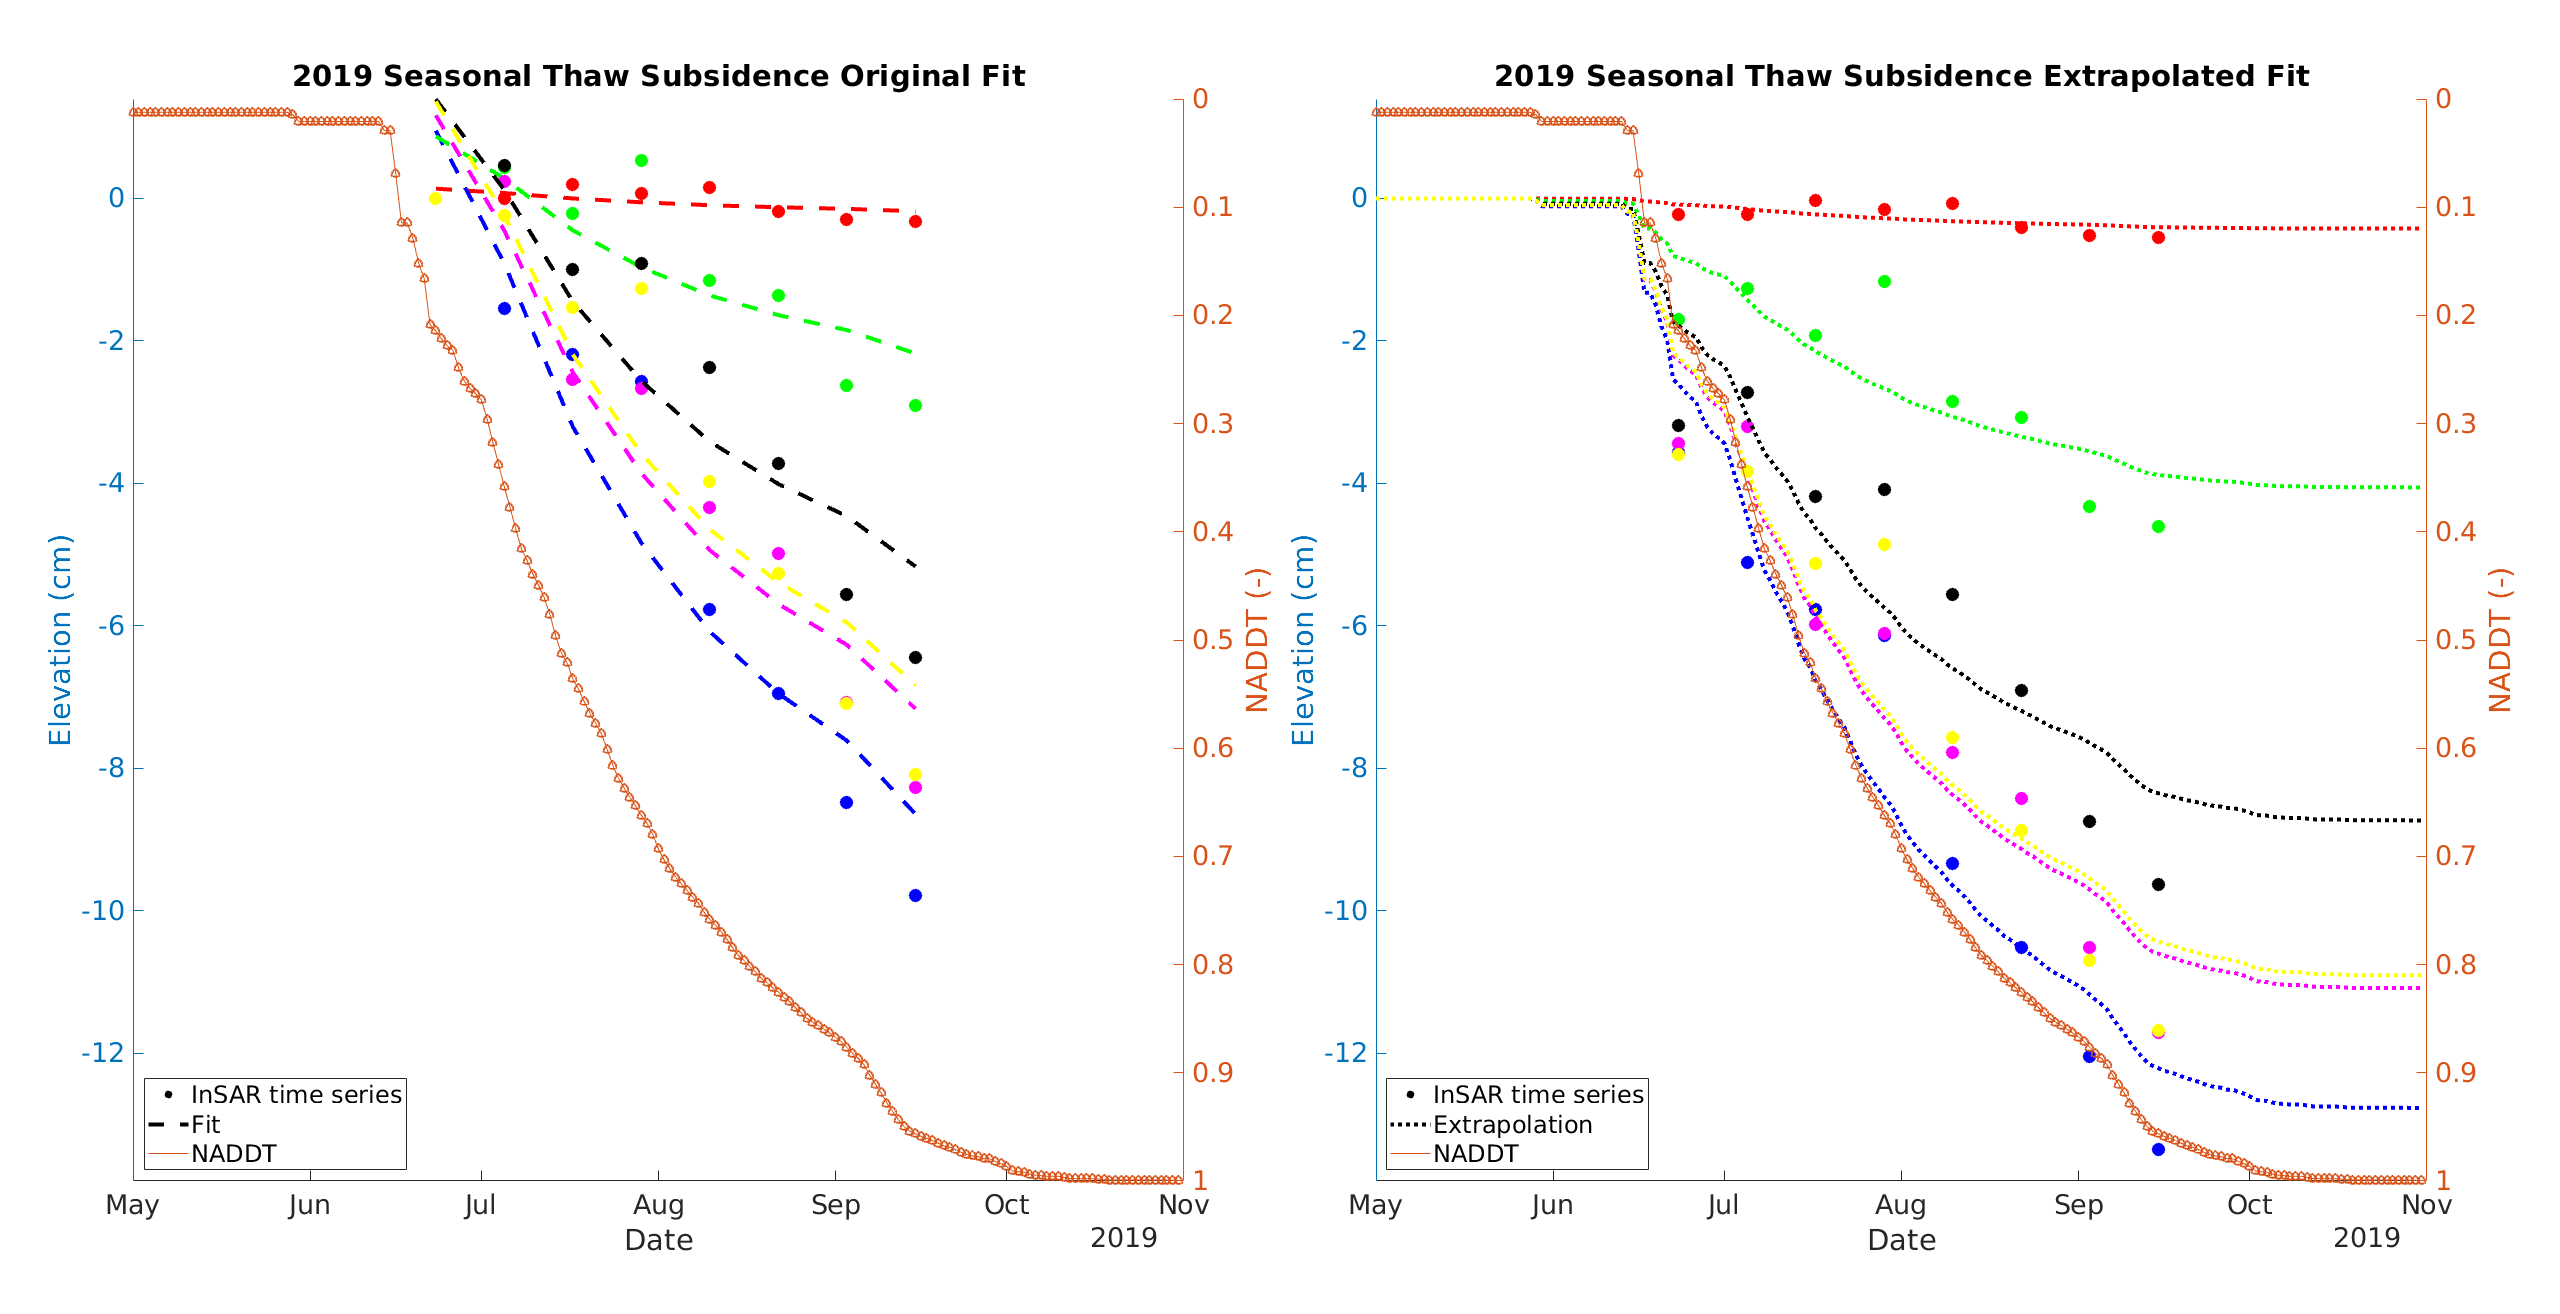
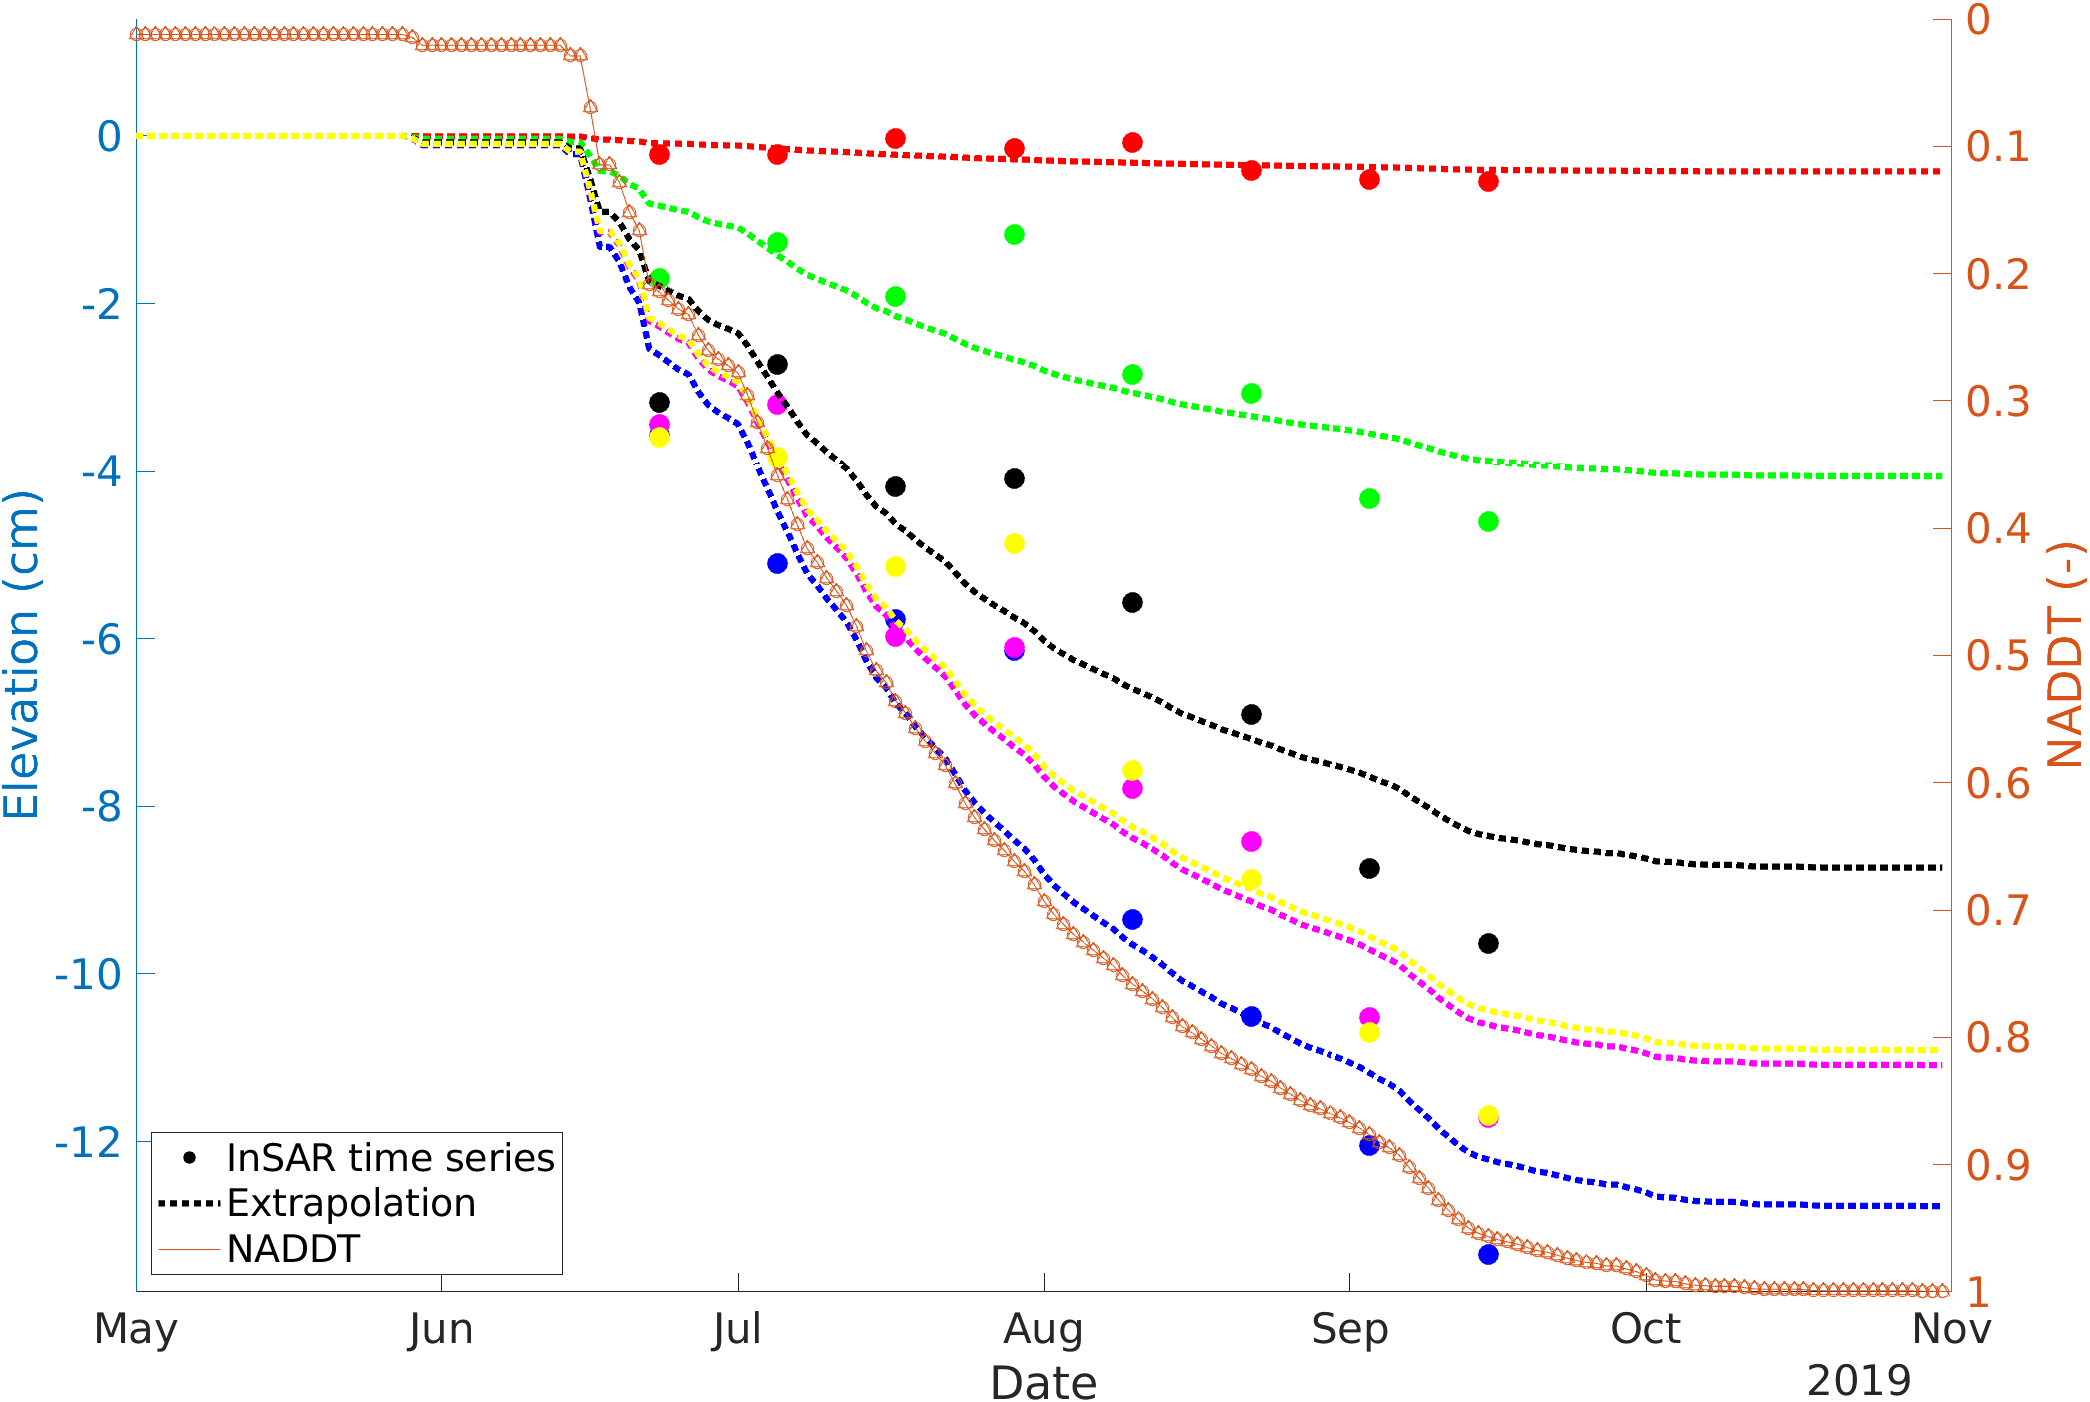
Standardize output plots
Removing old, manually-created plots for standardized plots for inter-year comparison and downstream figure generation.

diff --git a/main_processing/mintpy2018_v9_NW_drew_water/ReSALT/parse_data_one_year.m b/main_processing/mintpy2018_v9_NW_drew_water/ReSALT/parse_data_one_year.m
@@ -211,35 +211,8 @@ if freezedate > dates_datetime(num_dates)
     set(gca,'FontSize',20)
     set(gcf,'Position',[100 100 1500 1000])
 
-    %AGU ts plot
+    %Manuscript ts plot
     figure
-    tiledlayout(1,2)
-    nexttile
-    for i = 1:entries
-        yyaxis left
-        scatter(dates_datetime,squeeze(ts_thaw(pixelX(i),pixelY(i),:)),100,colors_full{i},'filled')
-        hold on
-        plot(dates_datetime,squeeze(yfitaddt(pixelX(i),pixelY(i),:)),colors{i},'LineWidth',3)
-        yyaxis right
-        set(gca,'YDir','reverse')
-        plot(dates_datetime_full,addt(dates_full_doy))
-    end
-    title([num2str(year),' Seasonal Thaw Subsidence Original Fit'])
-    xlabel('Date')
-    yyaxis left
-    ylabel('Elevation (cm)')
-    ylim_min = min(min(min(min(yfitaddt(pixelX,pixelY,:)))),min(min(min(yfit(pixelX,pixelY,:)))));
-    ylim_max = max(max(max(max(yfitaddt(pixelX,pixelY,:)))),max(max(max(yfit(pixelX,pixelY,:)))));
-    ylim([ylim_min,ylim_max])
-    yyaxis right
-    ylabel('NADDT (-)')
-%     legend(originallegendnames,'Location','bestoutside')
-    legend('','','','','','','','','InSAR time series','Fit','','','NADDT',"Location","southwest")
-    set(gca,'FontSize',20)
-    set(gcf,'Position',[100 100 1500 1000])
-    
-    nexttile
-
     for i = 1:entries
         yyaxis left
         scatter(dates_datetime,squeeze(ts_thaw_extrap(pixelX(i),pixelY(i),:)),100,colors_full{i},'filled')
@@ -249,7 +222,7 @@ if freezedate > dates_datetime(num_dates)
         set(gca,'YDir','reverse')
         plot(dates_datetime_full,addt(dates_full_doy))
     end
-    title([num2str(year),' Seasonal Thaw Subsidence Extrapolated Fit'])
+    %title([num2str(year),' Seasonal Thaw Subsidence Extrapolated Fit'])
     xlabel('Date')
     yyaxis left
     ylabel('Elevation (cm)')
@@ -395,6 +368,33 @@ else
     legend('','','','','','','','','InSAR time series','Extrapolation','','','NADDT',"Location","southwest")
     set(gca,'FontSize',20)
     set(gcf,'Position',[100 100 1500 1000])
+
+    %Manuscript ts plot
+    figure
+    for i = 1:entries
+        yyaxis left
+        scatter(dates_datetime,squeeze(ts_thaw_extrap(pixelX(i),pixelY(i),:)),100,colors_full{i},'filled')
+        hold on
+        plot(dates_datetime_full,squeeze(yfit(pixelX(i),pixelY(i),:)),colors{i},'LineWidth',3,'LineStyle',':')
+        yyaxis right
+        set(gca,'YDir','reverse')
+        plot(dates_datetime_full,addt(dates_full_doy))
+    end
+    %title([num2str(year),' Seasonal Thaw Subsidence Extrapolated Fit'])
+    xlabel('Date')
+    yyaxis left
+    ylabel('Elevation (cm)')
+    ylim([ylim_min,ylim_max])
+    yyaxis right
+    ylabel('NADDT (-)')
+%     legend(extraplegendnames,'Location','bestoutside')
+    legend('','','','','','','','','InSAR time series','Extrapolation','','','NADDT',"Location","southwest")
+    set(gca,'FontSize',20)
+    set(gcf,'Position',[100 100 1500 1000])
+    f = gcf;
+    f.WindowState = 'maximized';
+    aguplot = strcat(num2str(year),'_ts.png');
+    exportgraphics(f,aguplot)
 end
 %% error
 RMSE = zeros(nr,naz);
@@ -1099,8 +1099,12 @@ if isfile(ALT_core_string)
     e.Color = 'k';
 
     legend('ALT','Idealized 1-to-1 fit')
-    ax = gca;
-    ax.FontSize = 20;
+    set(gca,'FontSize',20)
+    set(gcf,'Position',[100 100 1500 1000])
+    f = gcf;
+    f.WindowState = 'maximized';
+    altplot = strcat(num2str(year),'_ALT_1_to_1_core.png');
+    exportgraphics(f,altplot)
 
 else
     disp("There is no ALT core data for this year.")
@@ -1183,8 +1187,12 @@ if isfile(ALT_probe_string)
     e.Color = 'k';
 
     legend('ALT','Idealized 1-to-1 fit')
-    ax = gca;
-    ax.FontSize = 20;
+    set(gca,'FontSize',20)
+    set(gcf,'Position',[100 100 1500 1000])
+    f = gcf;
+    f.WindowState = 'maximized';
+    altplot = strcat(num2str(year),'_ALT_1_to_1_probe.png');
+    exportgraphics(f,altplot)
 
 else
     disp("There is no probe data for this year.")
@@ -1229,8 +1237,12 @@ if isfile(ALT_core_string) %check if both core and probe data exists; if so, com
         e.Color = 'k';
 
         legend('ALT','Idealized 1-to-1 fit')
-        ax = gca;
-        ax.FontSize = 20;
+        set(gca,'FontSize',20)
+        set(gcf,'Position',[100 100 1500 1000])
+        f = gcf;
+        f.WindowState = 'maximized';
+        altplot = strcat(num2str(year),'_ALT_1_to_1_comb.png');
+        exportgraphics(f,altplot)
 
     else
         disp("Probe data does not exist. Only core data, so no need for combination of tables.")
@@ -1321,8 +1333,12 @@ if isfile(EIC_core_string)
     e.Color = 'k';
 
     legend('EIC','Idealized 1-to-1 fit')
-    ax = gca;
-    ax.FontSize = 20;
+    set(gca,'FontSize',20)
+    set(gcf,'Position',[100 100 1500 1000])
+    f = gcf;
+    f.WindowState = 'maximized';
+    altplot = strcat(num2str(year),'_EIC_1_to_1.png');
+    exportgraphics(f,altplot)
 else
     disp("There is no EIC core data for this year.")
 end

diff --git a/main_processing/mintpy2019_v8_NW_drew_water/ReSALT/parse_data_one_year.m b/main_processing/mintpy2019_v8_NW_drew_water/ReSALT/parse_data_one_year.m
@@ -211,35 +211,8 @@ if freezedate > dates_datetime(num_dates)
     set(gca,'FontSize',20)
     set(gcf,'Position',[100 100 1500 1000])
 
-    %AGU ts plot
+    %Manuscript ts plot
     figure
-    tiledlayout(1,2)
-    nexttile
-    for i = 1:entries
-        yyaxis left
-        scatter(dates_datetime,squeeze(ts_thaw(pixelX(i),pixelY(i),:)),100,colors_full{i},'filled')
-        hold on
-        plot(dates_datetime,squeeze(yfitaddt(pixelX(i),pixelY(i),:)),colors{i},'LineWidth',3)
-        yyaxis right
-        set(gca,'YDir','reverse')
-        plot(dates_datetime_full,addt(dates_full_doy))
-    end
-    title([num2str(year),' Seasonal Thaw Subsidence Original Fit'])
-    xlabel('Date')
-    yyaxis left
-    ylabel('Elevation (cm)')
-    ylim_min = min(min(min(min(yfitaddt(pixelX,pixelY,:)))),min(min(min(yfit(pixelX,pixelY,:)))));
-    ylim_max = max(max(max(max(yfitaddt(pixelX,pixelY,:)))),max(max(max(yfit(pixelX,pixelY,:)))));
-    ylim([ylim_min,ylim_max])
-    yyaxis right
-    ylabel('NADDT (-)')
-%     legend(originallegendnames,'Location','bestoutside')
-    legend('','','','','','','','','InSAR time series','Fit','','','NADDT',"Location","southwest")
-    set(gca,'FontSize',20)
-    set(gcf,'Position',[100 100 1500 1000])
-    
-    nexttile
-
     for i = 1:entries
         yyaxis left
         scatter(dates_datetime,squeeze(ts_thaw_extrap(pixelX(i),pixelY(i),:)),100,colors_full{i},'filled')
@@ -249,7 +222,7 @@ if freezedate > dates_datetime(num_dates)
         set(gca,'YDir','reverse')
         plot(dates_datetime_full,addt(dates_full_doy))
     end
-    title([num2str(year),' Seasonal Thaw Subsidence Extrapolated Fit'])
+    %title([num2str(year),' Seasonal Thaw Subsidence Extrapolated Fit'])
     xlabel('Date')
     yyaxis left
     ylabel('Elevation (cm)')
@@ -395,6 +368,33 @@ else
     legend('','','','','','','','','InSAR time series','Extrapolation','','','NADDT',"Location","southwest")
     set(gca,'FontSize',20)
     set(gcf,'Position',[100 100 1500 1000])
+
+    %Manuscript ts plot
+    figure
+    for i = 1:entries
+        yyaxis left
+        scatter(dates_datetime,squeeze(ts_thaw_extrap(pixelX(i),pixelY(i),:)),100,colors_full{i},'filled')
+        hold on
+        plot(dates_datetime_full,squeeze(yfit(pixelX(i),pixelY(i),:)),colors{i},'LineWidth',3,'LineStyle',':')
+        yyaxis right
+        set(gca,'YDir','reverse')
+        plot(dates_datetime_full,addt(dates_full_doy))
+    end
+    %title([num2str(year),' Seasonal Thaw Subsidence Extrapolated Fit'])
+    xlabel('Date')
+    yyaxis left
+    ylabel('Elevation (cm)')
+    ylim([ylim_min,ylim_max])
+    yyaxis right
+    ylabel('NADDT (-)')
+%     legend(extraplegendnames,'Location','bestoutside')
+    legend('','','','','','','','','InSAR time series','Extrapolation','','','NADDT',"Location","southwest")
+    set(gca,'FontSize',20)
+    set(gcf,'Position',[100 100 1500 1000])
+    f = gcf;
+    f.WindowState = 'maximized';
+    aguplot = strcat(num2str(year),'_ts.png');
+    exportgraphics(f,aguplot)
 end
 %% error
 RMSE = zeros(nr,naz);
@@ -1099,8 +1099,12 @@ if isfile(ALT_core_string)
     e.Color = 'k';
 
     legend('ALT','Idealized 1-to-1 fit')
-    ax = gca;
-    ax.FontSize = 20;
+    set(gca,'FontSize',20)
+    set(gcf,'Position',[100 100 1500 1000])
+    f = gcf;
+    f.WindowState = 'maximized';
+    altplot = strcat(num2str(year),'_ALT_1_to_1_core.png');
+    exportgraphics(f,altplot)
 
 else
     disp("There is no ALT core data for this year.")
@@ -1183,8 +1187,12 @@ if isfile(ALT_probe_string)
     e.Color = 'k';
 
     legend('ALT','Idealized 1-to-1 fit')
-    ax = gca;
-    ax.FontSize = 20;
+    set(gca,'FontSize',20)
+    set(gcf,'Position',[100 100 1500 1000])
+    f = gcf;
+    f.WindowState = 'maximized';
+    altplot = strcat(num2str(year),'_ALT_1_to_1_probe.png');
+    exportgraphics(f,altplot)
 
 else
     disp("There is no probe data for this year.")
@@ -1229,8 +1237,12 @@ if isfile(ALT_core_string) %check if both core and probe data exists; if so, com
         e.Color = 'k';
 
         legend('ALT','Idealized 1-to-1 fit')
-        ax = gca;
-        ax.FontSize = 20;
+        set(gca,'FontSize',20)
+        set(gcf,'Position',[100 100 1500 1000])
+        f = gcf;
+        f.WindowState = 'maximized';
+        altplot = strcat(num2str(year),'_ALT_1_to_1_comb.png');
+        exportgraphics(f,altplot)
 
     else
         disp("Probe data does not exist. Only core data, so no need for combination of tables.")
@@ -1321,8 +1333,12 @@ if isfile(EIC_core_string)
     e.Color = 'k';
 
     legend('EIC','Idealized 1-to-1 fit')
-    ax = gca;
-    ax.FontSize = 20;
+    set(gca,'FontSize',20)
+    set(gcf,'Position',[100 100 1500 1000])
+    f = gcf;
+    f.WindowState = 'maximized';
+    altplot = strcat(num2str(year),'_EIC_1_to_1.png');
+    exportgraphics(f,altplot)
 else
     disp("There is no EIC core data for this year.")
 end
